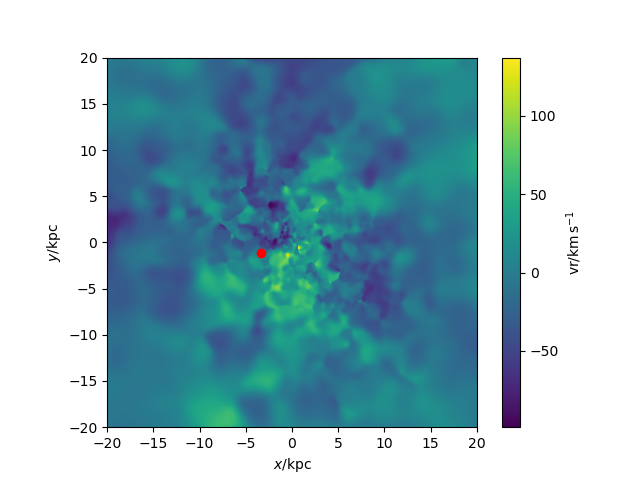
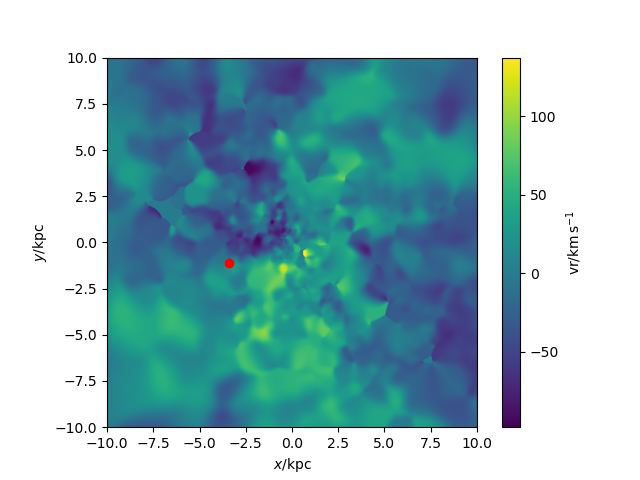
axis updated

diff --git a/r239/galaxy239_iongas.py b/r239/galaxy239_iongas.py
@@ -13,13 +13,14 @@ s=pynbody.load('/mnt/data0/jillian/gguaman/r239/cosmo25p.768sg1bwK1BHe75.007779'
 s.physical_units()
 
 #centering halo
-pynbody.analysis.angmom.faceon(s)
+#pynbody.analysis.angmom.faceon(s)
+pynbody.analysis.angmom.sideon(s)
 
 #filter to only use ionised gas
 GasFilter = pynbody.filt.HighPass('temp','15848 K')
 
 #creating image to show velocity of ionised gas
-sph.image(s.g[GasFilter],qty="vr",vmin=-20,width=40,denoise=True,approximate_fast=False,log=False)
+sph.image(s.g[GasFilter],qty="vr",vmin=-20,width=20,denoise=True,approximate_fast=False,log=False)
 
 #function to find BH
 def findBH(s):
@@ -52,4 +53,5 @@ BHz=BHposition[[0],2]
 plt.plot(BHx,BHy, 'ro')
 
 #plt.show()
-plt.savefig("galaxy239_iongas.png")
+#plt.savefig("galaxy239_iongas.png")
+plt.savefig("galaxy239_iongas(side).png")

diff --git a/r239/galaxy239_velocity.py b/r239/galaxy239_velocity.py
@@ -7,13 +7,16 @@ import matplotlib.pyplot as plt
 
 #loading snapshot
 s=pynbody.load('/mnt/data0/jillian/gguaman/r239/cosmo25p.768sg1bwK1BHe75.007779')
+
+#setting to physcial units
 s.physical_units()
 
 #centering halo
-pynbody.analysis.angmom.faceon(s)
+#pynbody.analysis.angmom.faceon(s)
+pynbody.analysis.angmom.sideon(s)
 
 #creating gas velocity plot
-sph.image(s.g,qty="vr",width=40,denoise=True,approximate_fast=False,log=False)
+sph.image(s.g,qty="vr",width=20,denoise=True,approximate_fast=False,log=False)
 
 #function to find BH
 def findBH(s):
@@ -46,4 +49,5 @@ BHz=BHposition[[0],2]
 plt.plot(BHx,BHy, 'ro')
 
 #plt.show()
-plt.savefig("galaxy239_velocity.png")
+#plt.savefig("galaxy239_velocity.png")
+plt.savefig("galaxy239_velocity(side).png")

diff --git a/r239/galaxy239_temp.py b/r239/galaxy239_temp.py
@@ -12,10 +12,11 @@ s=pynbody.load('/mnt/data0/jillian/gguaman/r239/cosmo25p.768sg1bwK1BHe75.007779'
 s.physical_units()
 
 #centering halo
-pynbody.analysis.angmom.faceon(s)
+#pynbody.analysis.angmom.faceon(s)
+pynbody.analysis.angmom.sideon(s)
 
 #creating slice to show gas temp
-sph.image(s.g,qty="temp",width=40,denoise=True,approximate_fast=False,log=True)
+sph.image(s.g,qty="temp",width=20,denoise=True,approximate_fast=False,log=True)
 
 #function to find BH
 def findBH(s):
@@ -48,4 +49,5 @@ BHz=BHposition[[0],2]
 plt.plot(BHx,BHy, 'ro')
 
 #plt.show()
-plt.savefig("galaxy239_temp.png")
+#plt.savefig("galaxy239_temp.png")
+plt.savefig("galaxy239_temp(side).png")

diff --git a/r239/galaxy239_dens.py b/r239/galaxy239_dens.py
@@ -10,10 +10,11 @@ s=pynbody.load('/mnt/data0/jillian/gguaman/r239/cosmo25p.768sg1bwK1BHe75.007779'
 s.physical_units()
 
 #centering halo and aligning disk
-pynbody.analysis.angmom.faceon(s)
+#pynbody.analysis.angmom.faceon(s)
+pynbody.analysis.angmom.sideon(s)
 
 #creating gas density slice
-sph.image(s.g,qty="rho",units="g cm^-3",width=40)
+sph.image(s.g,qty="rho",units="g cm^-3",width=20)
 
 #function to find BH
 def findBH(s):
@@ -46,4 +47,5 @@ BHz=BHposition[[0],2]
 plt.plot(BHx,BHy, 'ro')
 
 #plt.show()
-plt.savefig("galaxy239_dens.png")
+#plt.savefig("galaxy239_dens.png")
+plt.savefig("galaxy239_dens(side).png")

diff --git a/r219/galaxy219_dens.py b/r219/galaxy219_dens.py
@@ -10,8 +10,8 @@ s=pynbody.load('/mnt/data0/jillian/gguaman/r219/cosmo25p.768sg1bwK1BHe75.007779'
 s.physical_units()
 
 #centering halo and aligning disk
-#pynbody.analysis.angmom.faceon(s)
-pynbody.analysis.angmom.sideon(s)
+pynbody.analysis.angmom.faceon(s)
+#pynbody.analysis.angmom.sideon(s)
 
 #creating gas density slice
 sph.image(s.g,qty="rho",units="g cm^-3",width=30)
@@ -47,5 +47,5 @@ BHz=BHposition[[0],2]
 plt.plot(BHx,BHy, 'ro')
 
 #plt.show()
-#plt.savefig("galaxy219_dens.png")
-plt.savefig("galaxy219_dens(side).png")
+plt.savefig("galaxy219_dens.png")
+#plt.savefig("galaxy219_dens(side).png")

diff --git a/r239/galaxy239_stars.py b/r239/galaxy239_stars.py
@@ -10,10 +10,12 @@ s=pynbody.load('/mnt/data0/jillian/gguaman/r239/cosmo25p.768sg1bwK1BHe75.007779'
 s.physical_units()
 
 #centering halo
-pynbody.analysis.angmom.faceon(s)
+#pynbody.analysis.angmom.faceon(s)
+pynbody.analysis.angmom.sideon(s)
 
 #creating image using default bands(i,v,u)
-pynbody.plot.stars.render(s,width='12 kpc')
+pynbody.plot.stars.render(s,width='20 kpc')
 
 #plt.show()
-plt.savefig("galaxy239_stars.png")
+#plt.savefig("galaxy239_stars.png")
+plt.savefig("galaxy239_stars(side).png")
